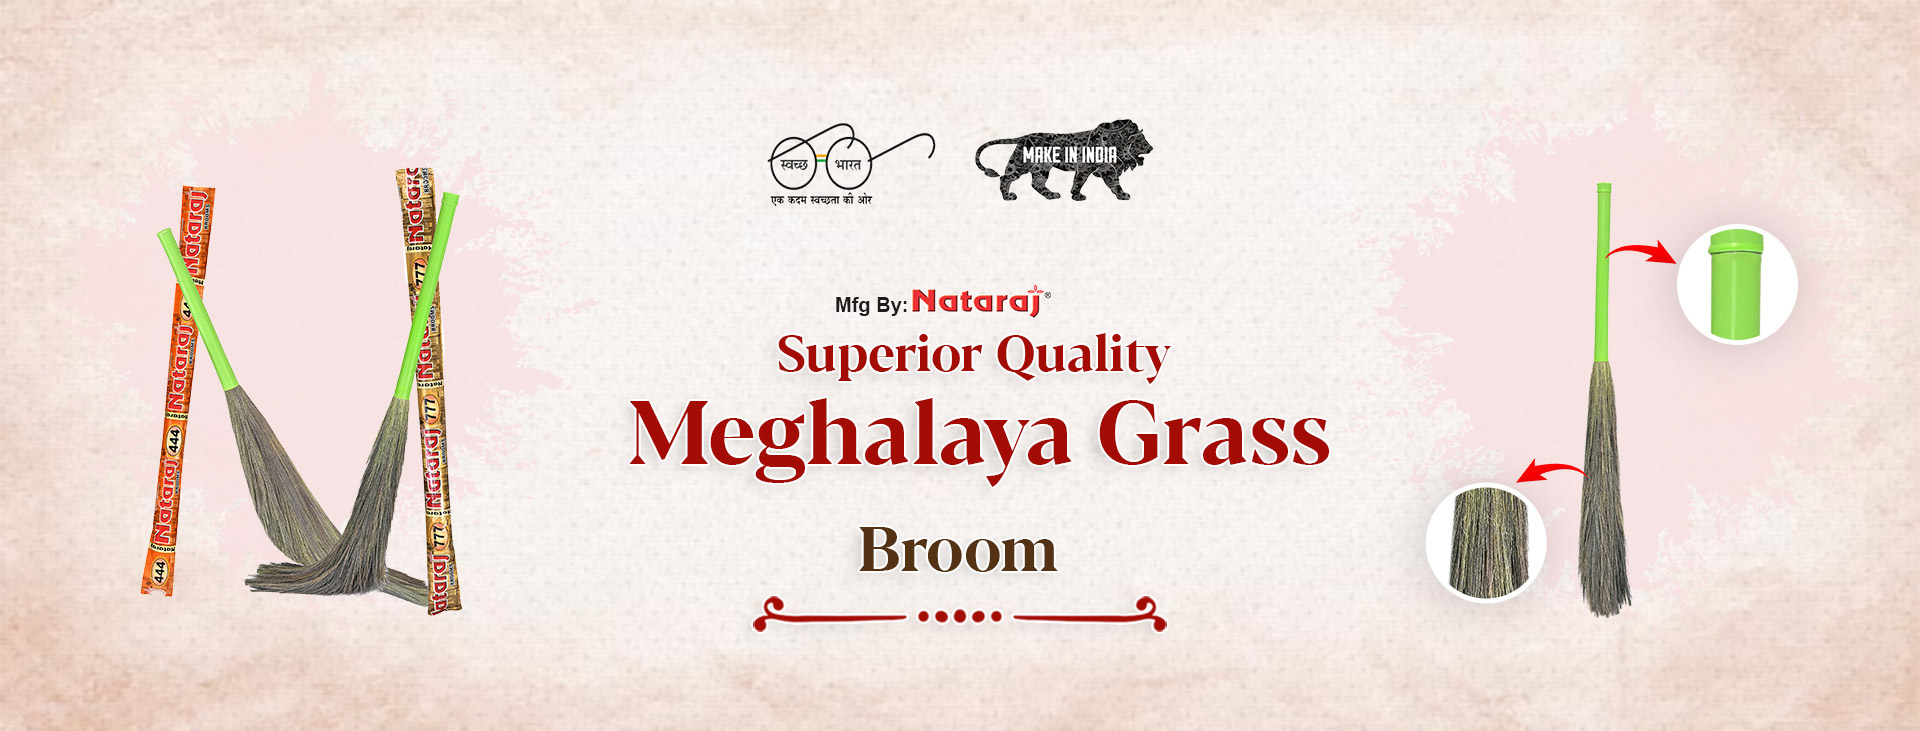
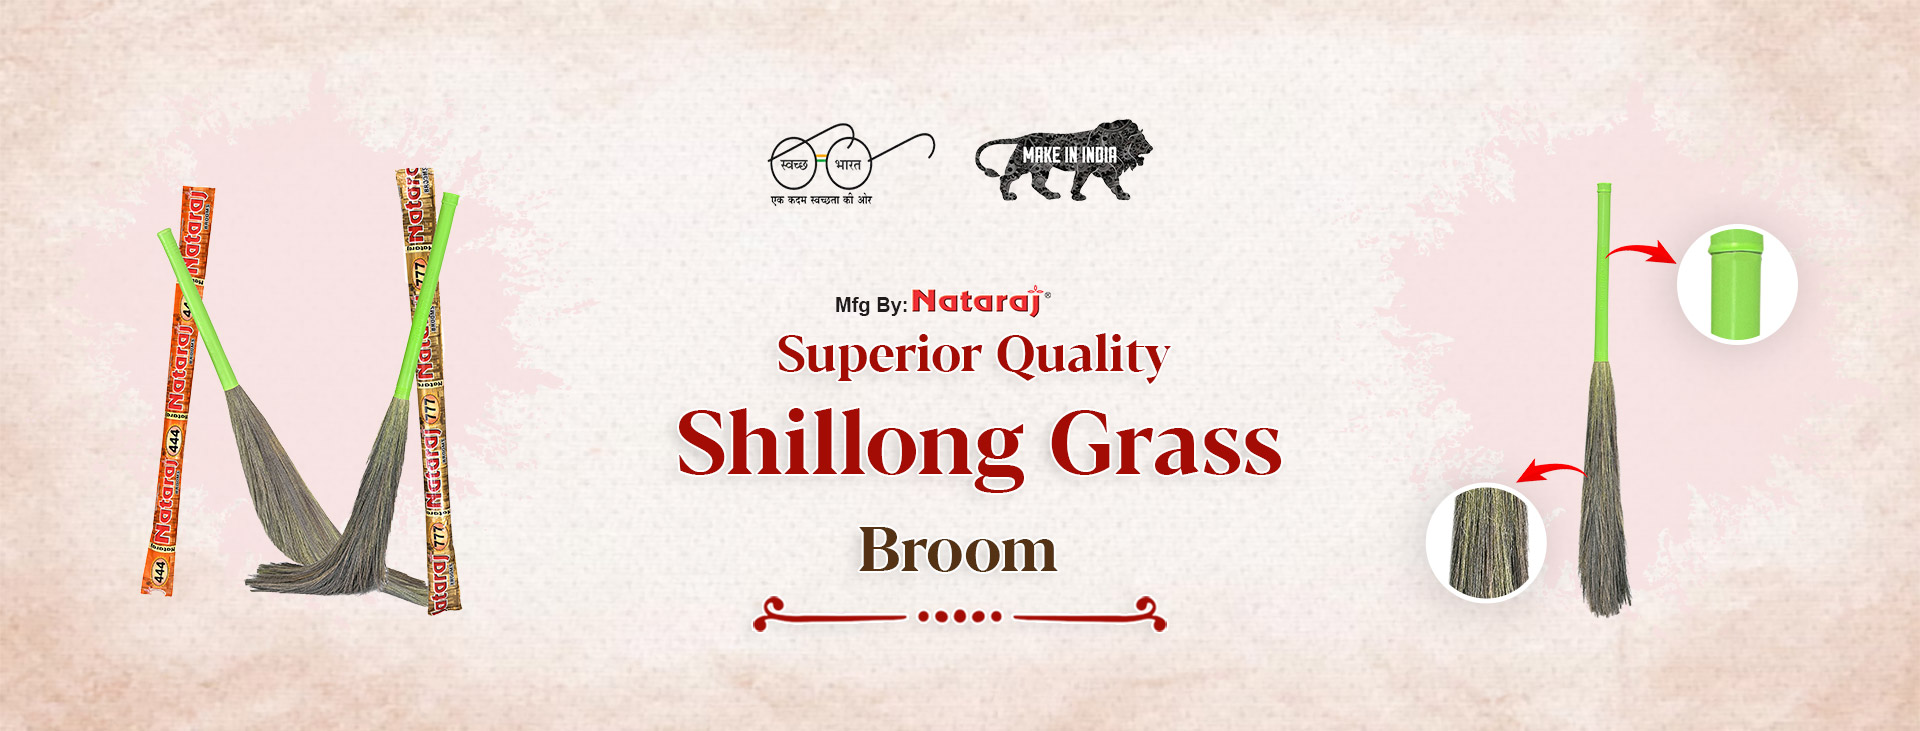
changes

Changed region(s): [[0.3125, 0.5417, 0.7188, 0.6922]]

diff --git a/assets/css/style.css b/assets/css/style.css
@@ -2905,6 +2905,7 @@ figure.image {
     box-shadow: 0px 0px 20px #60606033;
     border-radius: 20px;
     text-align: center;
+    padding-bottom: 22px;
 }
 .pricing-block-two .inner-box .content-column .inner-column::before {
     content: "";
@@ -2927,6 +2928,9 @@ figure.image {
     font-weight: 600;
     color: #a22024;
     margin-bottom: 7px;
+}
+.pricing-block-two .inner-box .content-column .inner-column p {
+    font-size: 14px;
 }
 .pricing-block-two .inner-box .content-column .inner-column span {
     color: #f7921e;
@@ -3104,13 +3108,15 @@ figure.image {
     margin-bottom: 20px;
     border-radius: 10px;
     margin: 0px;
-    max-height: 250px;
+    height: 250px;
     display: flex;
     align-items: center;
 }
 .mediaGalleryImgCard img{
     width: 100%;
     border-radius: 10px;
+    height: 100%;
+    object-fit: cover;
 }
 .galleryTitle{
     text-align: center;

diff --git a/index.html b/index.html
@@ -717,7 +717,7 @@
                             </p>
                             <p>Key Features:</p>
                             <ul>
-                                <li>Crafted from premium Meghalaya grass</li>
+                                <li>Crafted from premium Shillong grass</li>
                                 <li>Firm, ergonomic handle for better grip</li>
                                 <li>Strong, shed-free binding for extended use</li>
                                 <li>Great for sweeping corners and wide areas</li>
